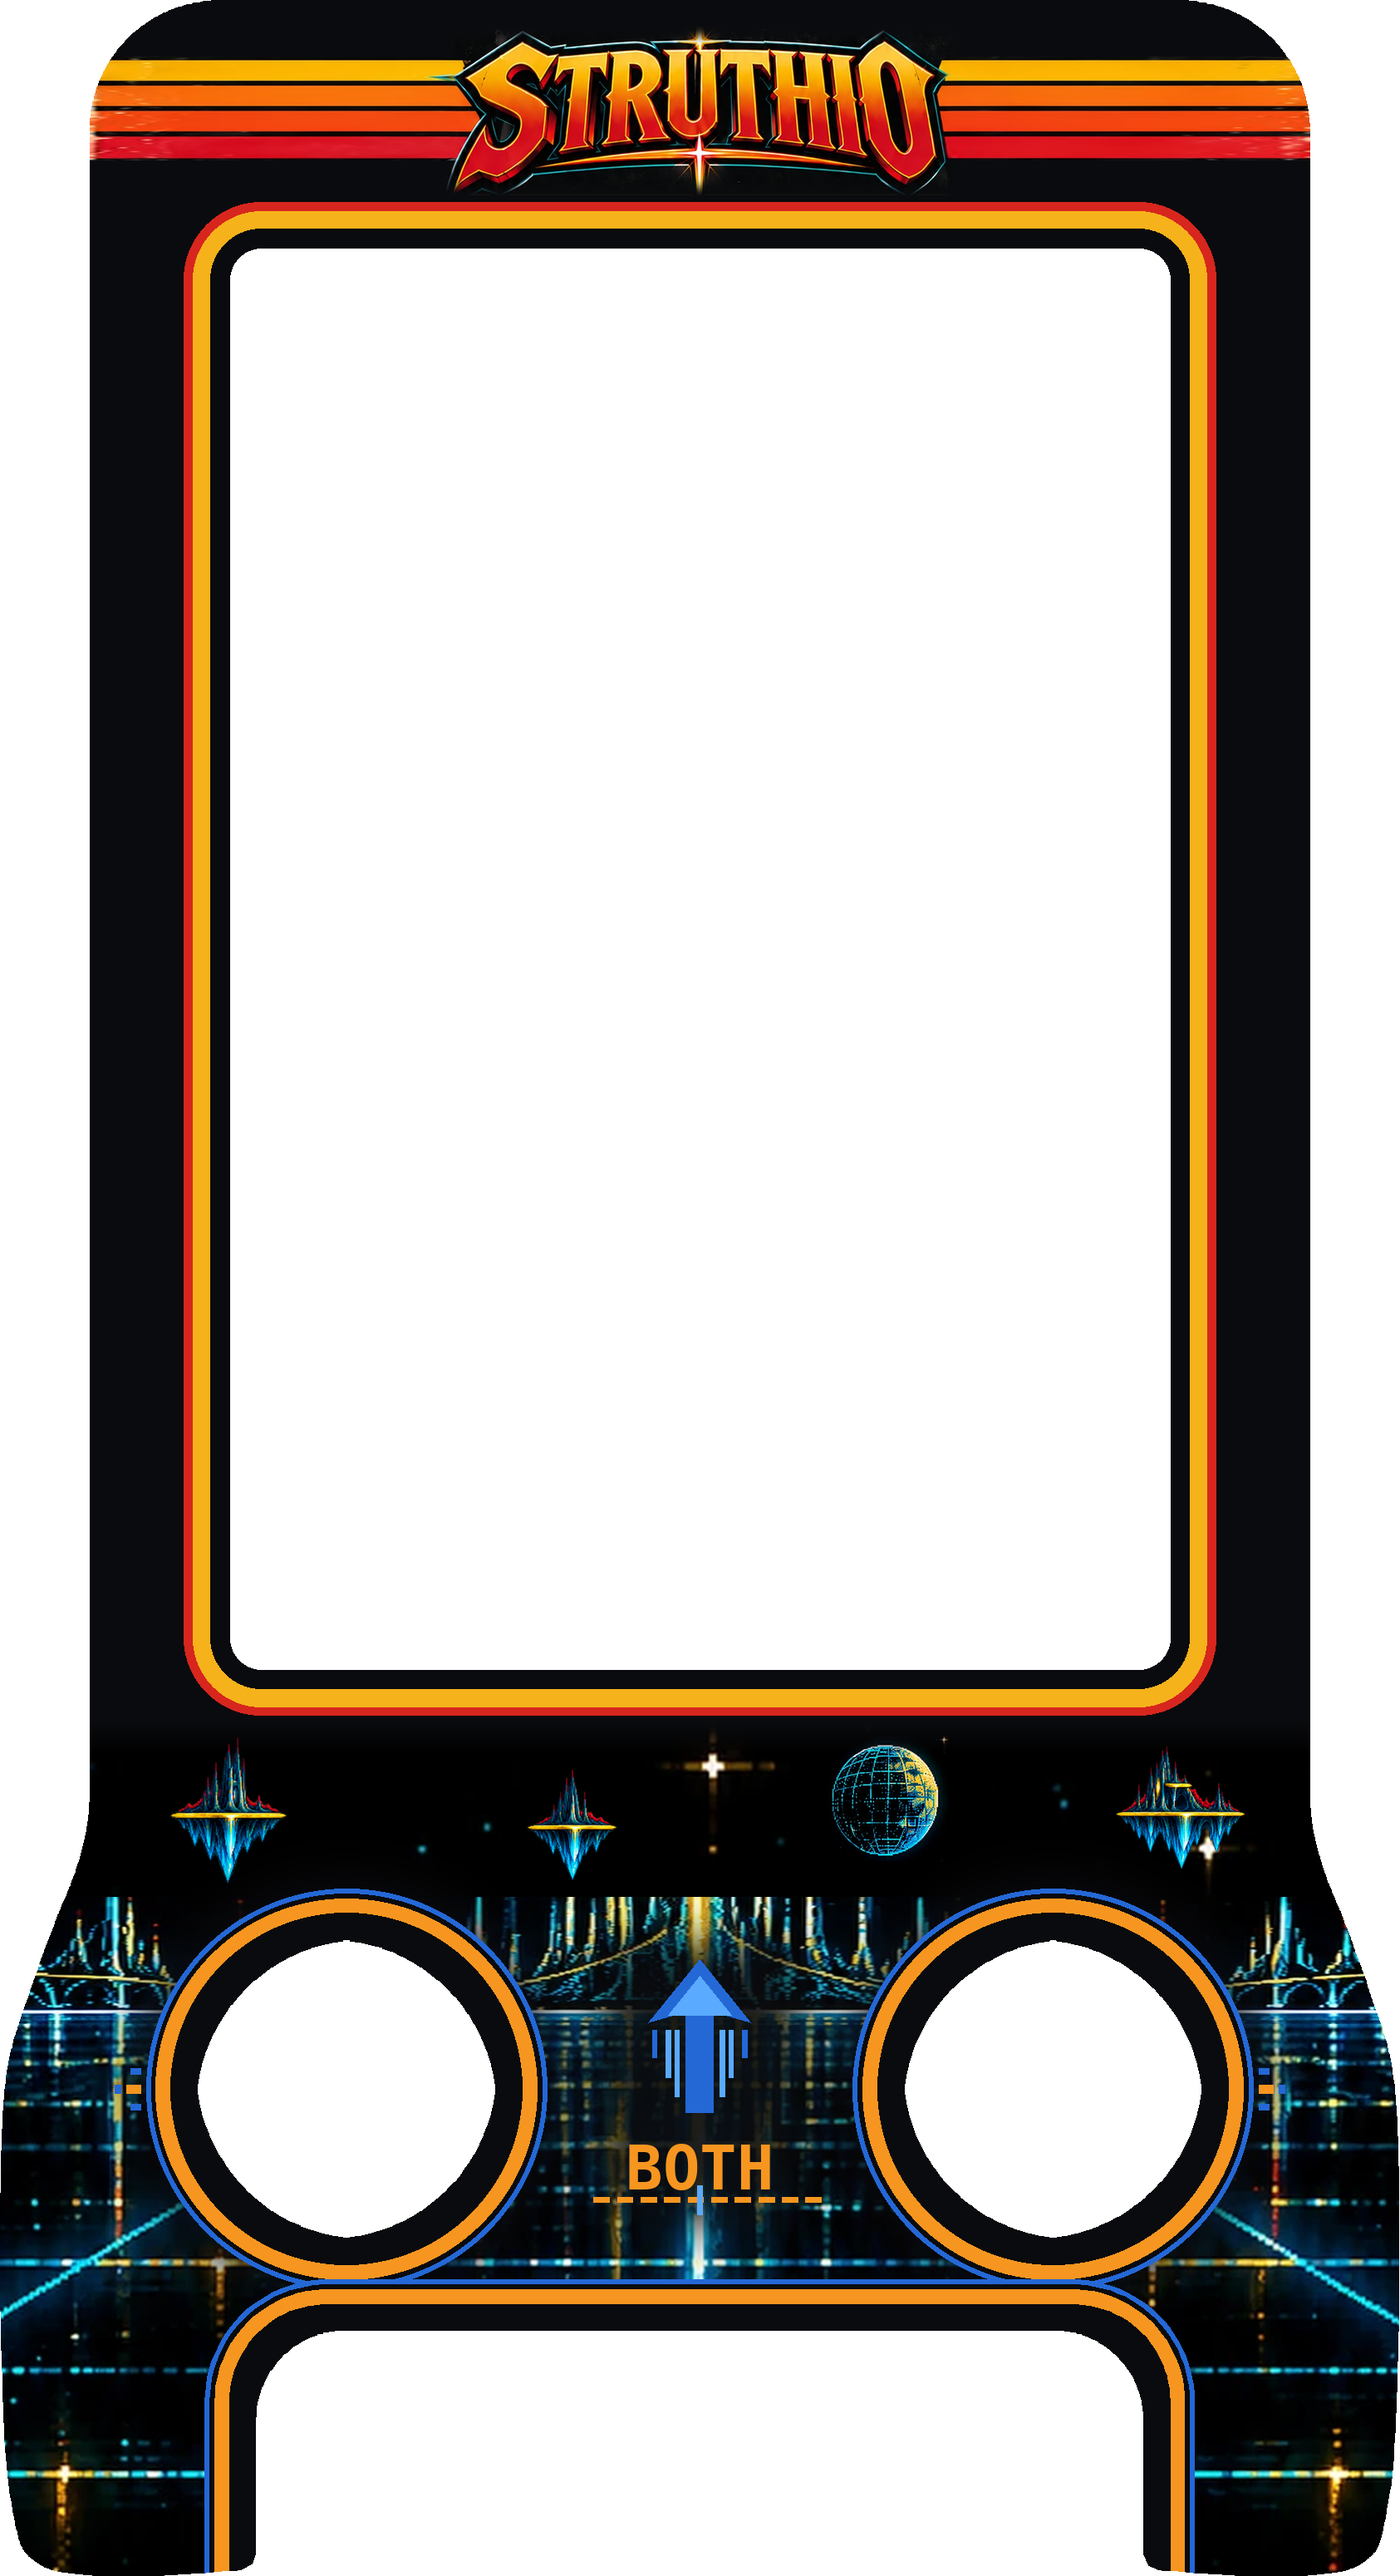
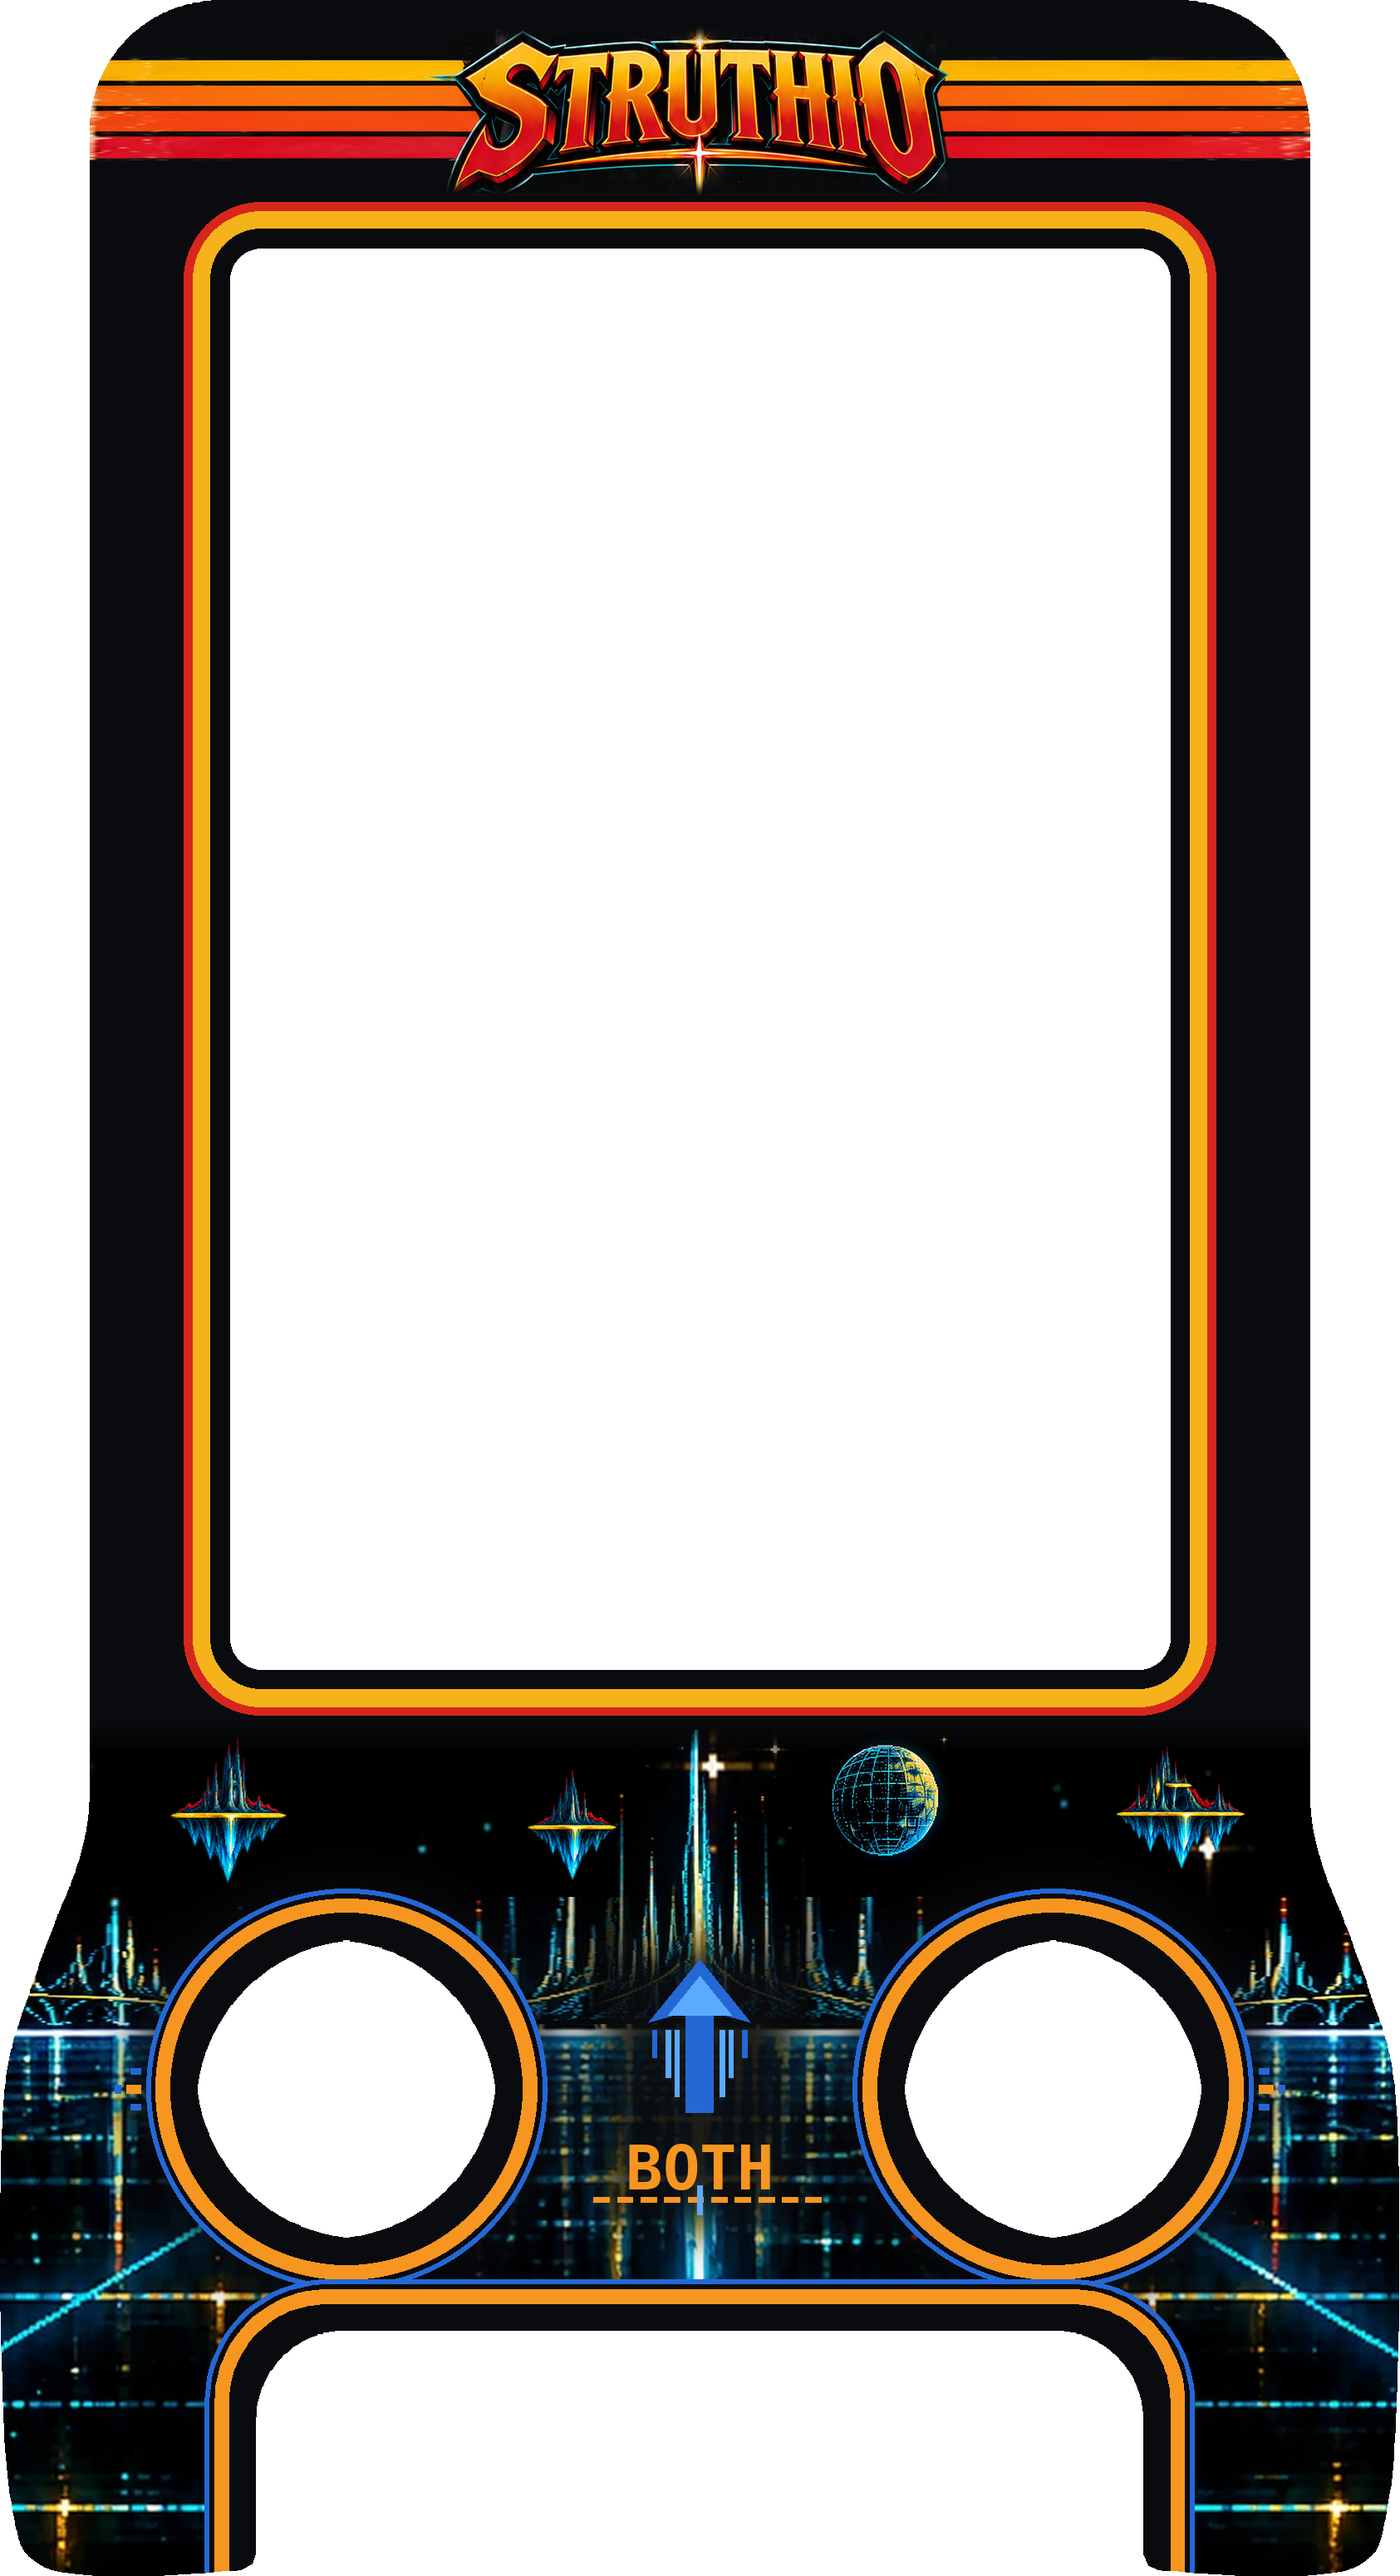
STRUTHIO ONE panel: the central castle drawn whole
The skyline was squashed into 6.5 mm, which cut the tall central castle off
mid-spire. The side spires stay low; the castle is now drawn separately at
its own proportions, rising from the horizon to just under the screen frame.

Claude-Session: https://claude.ai/code/session_01BN2x2AjDXTm5ZbuwkUnxX5

Changed region(s): [[0.3395, 0.6815, 0.6789, 0.8984], [0.8024, 0.7435, 1.0, 1.0], [0.0, 0.7435, 0.1852, 1.0]]

diff --git a/handheld/cad/one/panel/make_panel.py b/handheld/cad/one/panel/make_panel.py
@@ -142,13 +142,24 @@ def bg_scene():
     horizon behind the buttons, the glowing grid and its reflections below (all from the game's own art)"""
     lay = stars_layer()
     sw = 74.0; ss = sw / rear.width; HZ = -40.5                  # drawn 74 mm wide, horizon at y -40.5
-    grid = rear.crop((0, 1690, rear.width, rear.height))
+    grid = rear.crop((0, 1672, rear.width, rear.height))
     grid = grid.resize((round(L(sw)), round(L(grid.height * ss))), Image.LANCZOS)
     lay.paste(grid, tuple(round(v) for v in px(-sw / 2, HZ)))
-    sky = rear.crop((0, 1560, rear.width, 1690))                 # the skyline, kept low: 6.5 mm
+    HZ_PX = 1672                                                 # the horizon row in background-rear
+    sky = rear.crop((0, 1530, rear.width, HZ_PX))                # the side spires, kept low: 6.5 mm
     sky = sky.resize((round(L(sw)), round(L(6.5))), Image.LANCZOS)
+    hole = Image.new('L', sky.size, 255)                         # minus the centre, where the castle stands whole
+    ImageDraw.Draw(hole).rectangle([sky.width // 2 - L(5.5), 0, sky.width // 2 + L(5.5), sky.height], fill=0)
+    sky = Image.composite(sky, Image.new('RGB', sky.size, (0, 0, 0)), hole.filter(ImageFilter.GaussianBlur(L(1.2))))
     x, y = px(-sw / 2, HZ + 6.5); box = (round(x), round(y), round(x) + sky.width, round(y) + sky.height)
     lay.paste(ImageChops.lighter(lay.crop(box), sky), box[:2])
+    ch = 15.0; cw = ch * 190 / (HZ_PX - 1290) * 1.5             # the central castle: whole, tip just under the frame
+    castle = rear.crop((289, 1290, 479, HZ_PX)).resize((round(L(cw)), round(L(ch))), Image.LANCZOS)
+    fade = Image.new('L', castle.size, 0)
+    ImageDraw.Draw(fade).rectangle([L(1.6), 0, castle.width - L(1.6), castle.height], fill=255)
+    castle = Image.composite(castle, Image.new('RGB', castle.size, (0, 0, 0)), fade.filter(ImageFilter.GaussianBlur(L(0.8))))
+    x, y = px(-cw / 2, HZ + ch); box = (round(x), round(y), round(x) + castle.width, round(y) + castle.height)
+    lay.paste(ImageChops.lighter(lay.crop(box), castle), box[:2])
     moon = rear.crop((470, 110, 750, 390))
     mw = 6.4; moon = moon.resize((round(L(mw)), round(L(mw))), Image.LANCZOS)
     x, y = px(9.5 - mw / 2, -29.0 + mw / 2)
